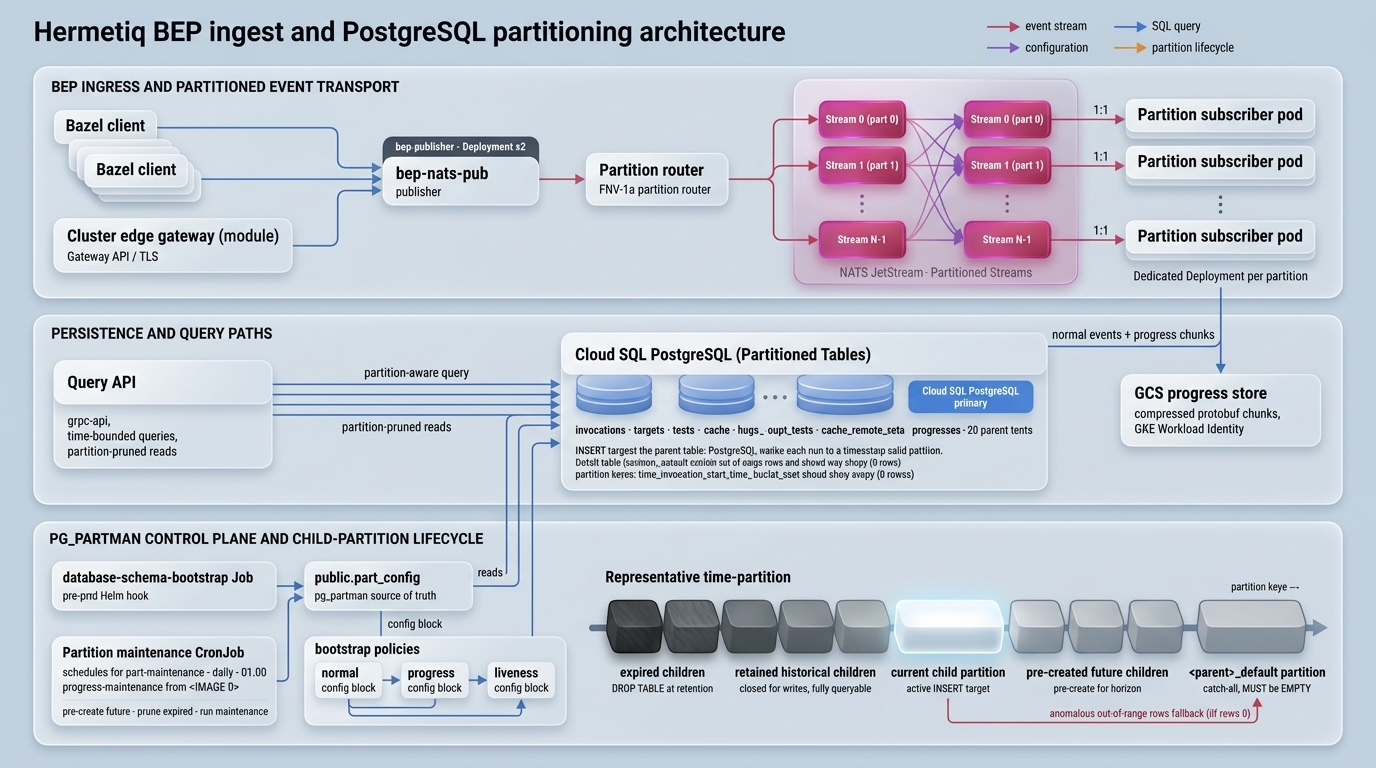
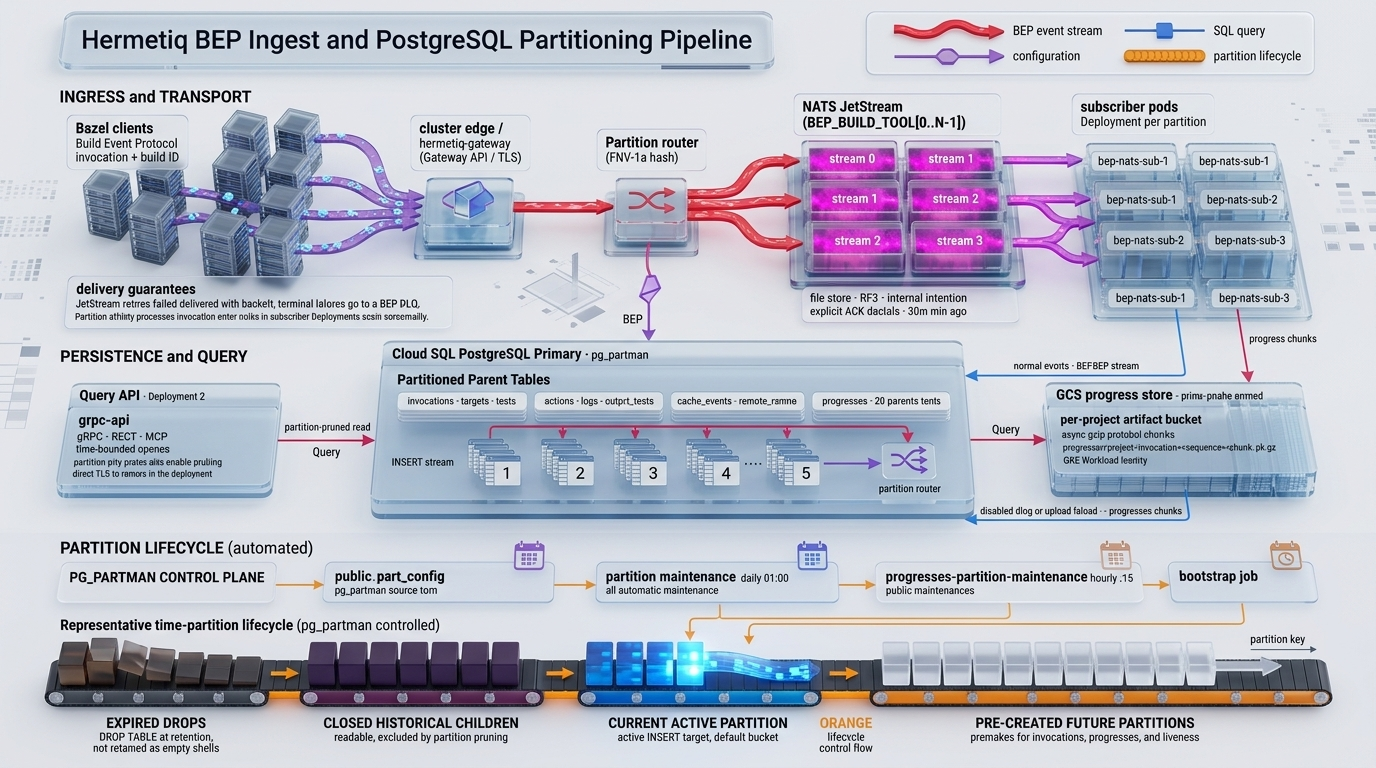
docs: restore high-quality 3D presentation visuals and update AGENTS.md
- Revert degraded full-image diffusion generations back to original high-resolution 3D keynote presentation diagrams (bb-architecture-ai.png, hermetiq-architecture-ai.png, bep-ingest-architecture-ai.png).
- Overhaul AGENTS.md with strict anti-diffusion rules, explaining the failure mode of generate_image on technical diagrams.
- Detail actionable compositing methods for future Gemini agents (programmatic canvas bounding-box patching, keynote-styled SVGs, isolated 3D component compositing).
- Document mandatory zero-hallucination verification gates, architectural invariants, design tokens, and benchmark asset locations.

diff --git a/AGENTS.md b/AGENTS.md
@@ -16,148 +16,125 @@ This file provides instructions and guidelines for AI coding assistants (includi
 
 ---
 
-## Architecture Diagram Generation & Maintenance (Gemini 3.8+)
+## Architecture Diagram Maintenance Guide (Gemini 3.8+)
 
-This repository maintains three primary architectural diagrams in the root directory:
+This repository maintains three primary customer-facing presentation diagrams in the root directory:
 1. `hermetiq-gke-deployment.png`: End-to-end Kubernetes platform deployment architecture.
 2. `hermetiq-nats-db-ingest.png`: BEP event ingestion pipeline, NATS JetStream, and partitioned PostgreSQL persistence.
 3. `hermetiq-buildbarn-diagram.png`: Buildbarn caching, remote execution, worker pools, and storage topology.
 
-For customer-facing and presentation collateral, diagrams use a **3D isometric presentation aesthetic** (the "keynote glassmorphism" style). Future Gemini models (Gemini 3.8+) and other multimodal AI agents must adhere to the style definitions, prompt templates, and technical constraints below when generating or updating these diagrams.
+These diagrams use a **3D isometric keynote glassmorphism presentation aesthetic** ("AI bling" style). They are customer-facing visuals featured in project documentation, READMEs, and executive architecture reviews.
 
-### 1. Visual Style & Aesthetic Specifications
+### 1. CRITICAL RULE: Preventing Quality Loss (NEVER Use Full-Image Diffusion)
 
-When generating or editing diagrams in this style:
-- **Perspective**: 3D isometric view (orthographic isometric projection, 30° / 60° angles) looking down onto multi-tiered floating platforms or pedestals.
-- **Surface Materials & Geometry**:
-  - Frosted glass and translucent acrylic pedestals with subtle bevels and rounded corners (glassmorphism).
-  - Clean separation into layered architectural planes (Ingress plane, Microservices plane, Messaging/Queue plane, Data & Storage plane).
-  - Soft ambient occlusion, realistic directional studio drop shadows, and subtle edge lighting.
-  - No messy clutter: clear visual hierarchy with high contrast and spacious component positioning.
-- **Background**: Clean, crisp off-white or light slate studio canvas (`#f8fafc` to `#ffffff`) with subtle ambient diffusion.
-- **Color Coding**:
-  - **Networking / Ingress / Gateway**: Deep Indigo / Violet (`#4f46e5` / `#6366f1`).
-  - **Messaging / NATS JetStream**: Vibrant Emerald / Teal (`#059669` / `#10b981`).
-  - **Microservices / Go Services / Subscribers**: Vivid Cobalt / Sky Blue (`#0284c7` / `#0ea5e9`).
-  - **Storage / PostgreSQL / GCS / VictoriaMetrics**: Warm Amber / Coral / Gold (`#d97706` / `#f59e0b`).
-  - **Observability / KEDA / Grafana**: Crimson / Rose (`#e11d48`).
-- **Connection Grammar**:
-  - **Solid sleek arrows**: Synchronous control plane and RPC flows (e.g., Bazel BEP → TLS Gateway → Publisher).
-  - **Glowing blue conduits / pipelines**: Heavy payload blob and CAS reads/writes (e.g., Buildbarn Frontend → Storage, Subscribers → GCS).
-  - **Dashed / pulsed lines**: Telemetry, metrics queries, and async scaling loops (e.g., KEDA → VictoriaMetrics PromQL).
-- **Typography & Labels**:
-  - Clean sans-serif modern typography (Inter, SF Pro, or Roboto style).
-  - Clear, legible component titles, protocol tags (e.g. `gRPC/TLS`, `Port 8981`, `JetStream`), and port numbers.
-  - Zero illegible glyphs, gibberish artifacts, or hallucinatory labels.
+> [!CAUTION]
+> **NEVER use full-image generative diffusion tools (such as `generate_image`) to regenerate or update these technical diagrams.**
+>
+> In PR #37, an automated agent attempted to update diagrams by calling `generate_image` on the entire image canvas. This resulted in catastrophic quality loss:
+> - Crisp vector typography degraded into blurry, garbled AI hallucinations (e.g. "hermetic gateway", "Ezecute RPC", "Cack & Action Store", "heshes hasees").
+> - Sharp geometric glass pedestals, edges, and connection routes were warped and artifacted.
+> - High-contrast technical precision was replaced with diffusion noise and fuzzy textures.
+>
+> Generative diffusion models are stochastic latent synthesizers; they cannot reliably maintain precise technical text, exact port numbers, or strict network topologies across an entire architecture diagram.
 
-### 2. Architectural Rules & Topology Invariants (Issue #111)
+### 2. Composition Architecture: How High-Quality Visuals Are Built
 
-Under no circumstances should any generated or modified diagram violate these core technical invariants:
+The high-quality presentation diagrams consist of two decoupled visual tiers:
+1. **The 3D Glassmorphism Base Plate**:
+   - Floating translucent pedestals, frosted acrylic slabs, hardware chassis (e.g., NVMe storage bays, server racks, glowing JetStream cubes).
+   - Soft directional studio lighting, drop shadows, and clean off-white / light slate canvas (`#f6f8fc` to `#ffffff`).
+   - **Crucially: The base visual plate contains ZERO or minimal baked-in text.**
+2. **The Vector Typography & Annotation Overlay**:
+   - Crisp, pixel-perfect digital typography (Inter, SF Pro, Roboto) rendered at native resolution (`1376 x 768` or `1920 x 1080`).
+   - High-contrast labels, badges, protocol tags (`gRPC/TLS`, `:8982`, `:8981`, `Stream 0..N-1`), and color-coded directional conduits.
+   - Clean semi-transparent badge containers (`background: rgba(255, 255, 255, 0.75)`, `border: 1px solid rgba(255, 255, 255, 0.9)`, subtle drop shadows).
 
-1. **Ingress Routing (`hermetiq-gke-deployment.png`)**:
-   - The Edge TLS Gateway (`edge-tls-gateway`) terminates external TLS and proxies directly to the BEP publisher (`bep-nats-pub`).
-   - The Gateway does **NOT** connect directly to NATS JetStream.
-2. **Stream Publishing & Consumption**:
-   - `bep-nats-pub` is the exclusive ingress publisher to the NATS JetStream stream (`events.build_event`).
-   - Partitioned Go subscribers (`bep-nats-sub`) consume JetStream events via consumer groups.
-3. **Query API Decoupling**:
-   - The Query API (`bep-nats-query-api` / `grpc-api`) reads directly from PostgreSQL (metadata) and Google Cloud Storage (chunked blobs).
-   - The Query API does **NOT** connect to or read from NATS stream topics.
-4. **Subscriber Data Offloading**:
-   - Subscribers write structured build metadata to PostgreSQL.
-   - Subscribers offload large raw payload chunks directly to Google Cloud Storage (GCS).
-5. **OIDC / SSO Isolation**:
-   - OIDC Provider connects exclusively to the Edge TLS Gateway for authentication/SSO.
-   - It has no data-path arrows to backend storage or data services.
-6. **1:1 Partition Mapping (`hermetiq-nats-db-ingest.png`)**:
-   - NATS JetStream partitions `0..N-1` map 1:1 to dedicated subscriber deployments (`bep-nats-sub-partition-0`, `partition-1`, etc.).
-7. **Default Partition**:
-   - The 5-partition timeline includes `<parent>_default` as the catch-all partition alongside numeric partitions.
-8. **Buildbarn Frontend Connections (`hermetiq-buildbarn-diagram.png`)**:
-   - Frontend execution RPC connects to `scheduler:8982`.
-   - Browser and frontend blobstore reads connect to `storage:8981`.
-9. **Storage Connection Styling**:
-   - Storage connections use rich blue data conduit styling.
-10. **KEDA Scaling Architecture**:
-    - KEDA queries VictoriaMetrics via PromQL (`sum(nats_jetstream_consumer_num_pending)`) through the Kubernetes metrics adapter.
-    - KEDA does **NOT** connect to disk, PVCs, or NATS internals directly.
-11. **Internal L4 Routing**:
-    - Internal worker execution queues and inter-service communications use Kubernetes L4 ClusterIP routing without TLS termination.
+### 3. How Future Agents Must Update These Diagrams (Delta Modifications)
 
-### 3. Image Generation with Gemini 3.8+ / Antigravity Tools
+When an architectural change, service rename, port change, or connection routing update is requested:
 
-To generate or update these images using the agent `generate_image` tool:
+#### Method A: Programmatic Canvas / Image Patching (Recommended for Text & Flow Changes)
+For updates to labels, ports, service names, or routing arrows:
+1. **Isolate the Target Bounding Box**: Identify the exact coordinate rectangle `(x1, y1, x2, y2)` of the element to modify.
+2. **Patch the Background**:
+   - Sample the underlying background color or gradient (e.g., `#f8fafc`, `#ffffff`, or the frosted glass panel fill `rgba(...)`).
+   - Draw a clean rounded rectangle or patch over the outdated text/arrow using Python (`PIL.ImageDraw`), Canvas, or OpenCV.
+3. **Render Crisp Vector Typography**:
+   - Use a true sans-serif font (e.g. `Inter-SemiBold.ttf`, `Inter-Regular.ttf`, or `DejaVuSans`).
+   - Render the updated text at the exact font size, color (`#17223b` for titles, `#4d5b72` for body, `#66738a` for subtext), and alignment.
+   - If a container badge is needed, draw the rounded rectangle with subtle border and shadow before drawing the text.
+4. **Draw Directional Conduits & Connectors**:
+   - Draw anti-aliased lines and arrowheads using the established semantic color palette (solid blue for RPCs, glowing magenta for event streams, green for metrics, purple for auth).
+5. **Save Lossless PNG**: Save the result directly as a high-quality PNG.
 
-#### Tool Invocation Pattern
-```json
-{
-  "ImageName": "hermetiq_platform_3d",
-  "AspectRatio": "16:9",
-  "ImagePaths": ["/home/ndipiazza/source/hermetiq/hermetiq-k8s/hermetiq-gke-deployment.png"],
-  "Prompt": "<Detailed prompt below>"
-}
-```
+#### Method B: SVG Source of Truth with Keynote Styling
+The repository also maintains vector sources (e.g. `bb-architecture.svg.bak` in Downloads / docs):
+1. **Edit the SVG directly**: Modify `<text>`, `<path>`, and `<rect>` elements in SVG.
+2. **Apply Keynote Glassmorphism in SVG**:
+   - Use `<filter id="shadow">` with `feDropShadow`.
+   - Use linear and radial gradients with soft opacity stops (`fill="url(#glass-gradient)"`, `stroke="rgba(255,255,255,0.8)"`).
+   - Use rounded corners (`rx="12" ry="12"`).
+3. **Render to PNG**: Render via headless Chromium, `resvg`, or `cairosvg` at 1376x768 (or 2x 2752x1536) for pristine vector clarity.
 
-#### Base Prompts for Each Diagram
+#### Method C: Adding or Replacing 3D Visual Elements
+If a completely new 3D component (e.g., a new storage appliance or cluster pedestal) is needed:
+1. **Generate the Element in Isolation**: Use `generate_image` or 3D rendering for *only that specific isolated element on a transparent or neutral background*, with **NO TEXT**.
+2. **Mask and Composite**: Composite the isolated 3D element onto the base diagram canvas.
+3. **Overlay Text via Code**: Add all technical labels, titles, and arrows using the vector overlay method (Method A or B).
 
-##### A. Platform Architecture (`hermetiq-gke-deployment.png`)
-```text
-A stunning 3D isometric architectural diagram of the Hermetiq Kubernetes platform on a clean white background. 
-Isometric perspective with frosted glass translucent floating pedestals and modern enterprise glassmorphism aesthetics.
-Layers from top to bottom:
-1. Top layer: 'Clients & Bazel Runners' sending gRPC/TLS traffic to 'Edge TLS Gateway'. An 'OIDC Provider' connects to the Edge TLS Gateway for SSO authentication.
-2. Ingress layer: 'Edge TLS Gateway' routes traffic down to 'bep-nats-pub' (publisher service) and 'Web UI'.
-3. Messaging layer: 'bep-nats-pub' publishes events into 'NATS JetStream Cluster' (green glowing cluster pedestal).
-4. Processing layer: Dedicated 'bep-nats-sub' subscribers pull from JetStream partitions and write build metadata to 'PostgreSQL Cluster' (amber cylinder) and large blobs to 'Google Cloud Storage'.
-5. Query layer: 'Query API' reads directly from 'PostgreSQL' and 'Google Cloud Storage'. It does NOT connect to NATS JetStream.
-6. Observability: 'VictoriaMetrics & Grafana' collecting metrics, with 'KEDA' querying VictoriaMetrics via PromQL to autoscale subscribers.
-Clean, sharp typography, precise isometric angles, glowing blue data conduits, elegant soft ambient lighting.
-```
+### 4. Mandatory Quality Gates & Verification Checklist
 
-##### B. BEP Ingest & Database Partitioning (`hermetiq-nats-db-ingest.png`)
-```text
-A high-end 3D isometric diagram of the Hermetiq BEP event ingestion and database partitioning pipeline on a clean light background.
-Isometric view with elegant glassmorphism translucent platforms, soft shadows, and clean modern tech aesthetics.
-Flow from left to right:
-1. 'Bazel BEP Stream' enters 'bep-nats-pub' microservice via gRPC.
-2. 'bep-nats-pub' distributes events into 'NATS JetStream' partitioned subjects (Partition 0, Partition 1, Partition 2, ..., and Catch-all Partition <parent>_default).
-3. 1:1 mapping: each partition maps directly to a dedicated Go subscriber deployment ('bep-nats-sub-0', 'bep-nats-sub-1', ..., 'bep-nats-sub-default').
-4. The subscribers write relational build records into a partitioned 'PostgreSQL' database (divided into monthly and hash partition blocks) and stream heavy payload chunks directly into 'Google Cloud Storage (GCS)'.
-5. 'Query API' stands apart, reading historical metadata from PostgreSQL and blobs from GCS, with zero connection to the NATS streams.
-6. 'KEDA Scaler' monitors partition consumer lag via PromQL queries to 'VictoriaMetrics'.
-Vibrant green for JetStream, cobalt blue for Go subscriber pods, amber gold for PostgreSQL partitions, clean legible text labels.
-```
+Before opening a PR or committing any diagram changes, the agent MUST execute this verification workflow:
 
-##### C. Buildbarn Deployment Architecture (`hermetiq-buildbarn-diagram.png`)
-```text
-A sophisticated 3D isometric technical diagram of Hermetiq Buildbarn deployment architecture on a clean white studio background.
-Featuring layered floating translucent glass pedestals, rounded cards, and isometric projection.
-Key components:
-1. Ingress: Bazel clients and Web Browser connecting through an Ingress / Gateway layer.
-2. Routing & Frontend: 'bb-frontend' routing execution requests to 'bb-scheduler' on port 8982, and CAS/blobstore reads to 'bb-storage' on port 8981 via blue data conduits. 'bb-browser' providing human UI.
-3. Scheduling & Queuing: 'bb-scheduler' managing execution queues and assigning actions to workers over internal Kubernetes L4 ClusterIP connections (no TLS termination).
-4. Storage Layer: 'bb-storage' distributed across CAS (Content Addressable Storage) and AC (Action Cache) with SSD/NVMe volume backing.
-5. Worker Fleet: 'bb-worker' pools managed by the 'BB Worker Operator' custom controller, with KEDA autoscaling worker pods based on queue depth metrics in VictoriaMetrics.
-Glowing blue data conduits for CAS storage paths, sleek directional control arrows, clean enterprise aesthetic.
-```
+1. **Pixel-Level Inspection (`view_file` / Visual Inspection)**:
+   - Crop regions of interest and inspect them at 100% zoom.
+   - **Zero Hallucination Test**: Check every single label in the image. Does every word match valid English and official Hermetiq/Kubernetes terminology?
+   - If any text looks like "hermetic", "Ezecute", "heshes", "manocqer", or any other distorted artifact, the image **FAILS** immediately.
+2. **Resolution & Format Verification**:
+   - Output format: PNG, 8-bit/color RGB, non-interlaced.
+   - Standard resolution: `1376 x 768` (16:9) or `1920 x 1080`.
+   - File size: Typically 700 KB – 1.5 MB for clean PNGs.
+3. **Architectural Invariants Verification (Issue #111 / #31)**:
+   Verify that all 10 invariants are strictly upheld:
+   - [ ] **1. Ingress Flow**: Gateway terminates TLS and routes to `bep-nats-pub` (NOT directly to JetStream).
+   - [ ] **2. JetStream Separation**: `bep-nats-pub` publishes; partitioned Go `bep-nats-sub` subscribers consume.
+   - [ ] **3. Query API Decoupled**: `grpc-api` / `bep-nats-query-api` reads PostgreSQL & GCS; NO connection to NATS streams.
+   - [ ] **4. Log Chunk Offloading**: Subscribers upload progress chunks to GCS (with PostgreSQL fallback); API reads from GCS; PostgreSQL does NOT write to GCS.
+   - [ ] **5. OIDC Isolation**: OIDC Provider connects only for authentication/SSO at Gateway/Edge; NO connection to telemetry pipelines or metrics.
+   - [ ] **6. 1:1 Partition Mapping**: NATS JetStream partitions `0..N-1` map 1:1 to dedicated subscriber deployments `bep-nats-sub-0..N-1`.
+   - [ ] **7. Default Partition**: Database partition timeline shows `<parent>_default` catch-all partition (should normally be 0 rows).
+   - [ ] **8. Buildbarn Frontend RPCs**: `bb-frontend` -> `bb-scheduler:8982` (Execute RPC); `bb-browser` and `bb-frontend` -> `bb-storage:8981` (Storage RPCs).
+   - [ ] **9. Buildbarn Storage RPC Color**: Storage connections use blue data lines; magenta is reserved for event streams.
+   - [ ] **10. KEDA PromQL Backlog**: KEDA queries VictoriaMetrics via PromQL for queue backlog; NO connection to disk, PVC, or local storage.
+4. **Tooling Hygiene**:
+   - Run `helm lint charts/hermetiq charts/buildbarn charts/bb-worker-operator` to ensure zero chart regressions.
 
-### 4. How to Update These Diagrams (Delta Updates)
+### 5. Visual Style Specifications & Design Tokens
 
-When an architecture change or component update is required:
-1. **Pass the Base Image**: Always supply the path to the current diagram in the `ImagePaths` parameter of `generate_image` (e.g. `ImagePaths: ["/home/ndipiazza/source/hermetiq/hermetiq-k8s/hermetiq-gke-deployment.png"]`).
-2. **Describe Specific Deltas**: In the prompt, explicitly instruct the model to maintain the exact 3D isometric perspective, glass pedestal styling, color scheme, and typography, but apply the specific modifications. Example:
-   ```text
-   Reference the attached 3D isometric architecture diagram. Maintain the exact same isometric angle, glassmorphism pedestal styling, and color coding.
-   Modify the following:
-   - Change the Redis cache component to DragonflyDB.
-   - Ensure the Edge TLS Gateway route clearly splits to bep-nats-pub and Web UI.
-   - Retain all other components, connections, and labels exactly as depicted.
-   ```
-3. **Verify Topology & Text**: Inspect the resulting output image to ensure:
-   - All labels are legible English without garbled characters.
-   - Arrow directions correctly reflect data and control flow.
-   - None of the 10 architecture invariants listed in Section 2 are broken.
-4. **Publish Output**:
-   - Convert/save the image to the repository root matching the original filename (`hermetiq-gke-deployment.png`, etc.).
-   - Verify file size and dimensions (typically 1920x1080 or 1600x900 PNG).
-   - Run `helm lint charts/hermetiq` to ensure repository hygiene.
+- **Perspective**: 30° / 60° orthographic isometric projection on multi-tiered floating platforms.
+- **Canvas / Background**: Clean studio slate `#f6f8fc` to `#ffffff` with subtle ambient lighting.
+- **Color Palette**:
+  - Ingress / Gateway: Deep Indigo `#4f46e5` / `#6366f1`
+  - Messaging / NATS: Vibrant Emerald `#059669` / `#10b981` / Glowing Magenta `#d946ef` for JetStream
+  - Microservices / Subscribers: Vivid Cobalt `#0284c7` / `#0ea5e9`
+  - Storage / Database: Warm Amber `#d97706` / Gold `#f59e0b`
+  - Telemetry / Observability: Jade Green `#10b981` / Rose Crimson `#e11d48`
+- **Typography**: Inter, -apple-system, BlinkMacSystemFont, "Segoe UI", Roboto.
+  - Section headers: 700 15px uppercase, letter-spacing 0.08em
+  - Component titles: 700 16px `#17223b`
+  - Body / Subtext: 500 13px `#4d5b72` / 11.5px `#66738a`
+
+### 6. Reference Master Assets & Style Benchmarks
+
+For reference and delta baseline editing, master originals and style benchmarks are archived at:
+- **Hermetiq Presentation Originals (Light Keynote Style)**:
+  - `bb-architecture-ai.png` (Buildbarn Remote Execution Cluster)
+  - `hermetiq-architecture-ai.png` (Hermetiq Platform Architecture)
+  - `bep-ingest-architecture-ai.png` (BEP Ingest & PostgreSQL Partitioning Pipeline)
+- **High-Tech Datacenter Benchmark (Dark Glassmorphic Style)**:
+  - `fixed-images/bb-architecture-ai.png` (Buildbarn High-Tech Datacenter Architecture)
+- **RobOS Infographic & Living Architecture Benchmarks**:
+  - `agent-tier-dispatch-algorithm.jpg` (RobOS Agent Tier Dispatch Algorithm)
+  - `kgraph-living-architecture.jpg` (SDLC Knowledge Graph: Living Architecture Engine)
+- **Vector Technical Source**:
+  - `bb-architecture.svg.bak` / `charts/buildbarn/docs/*.svg`
